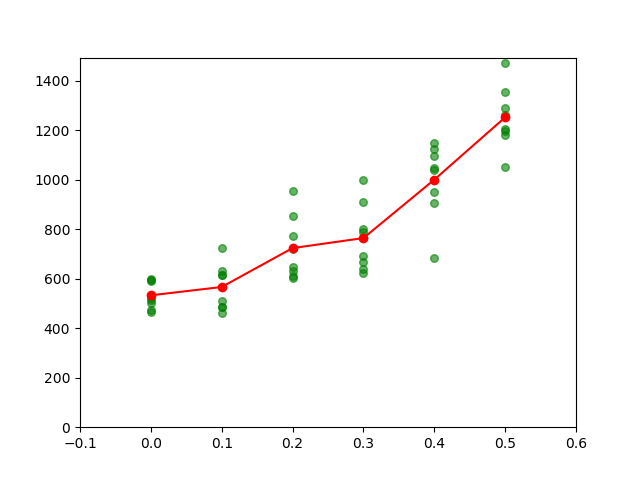
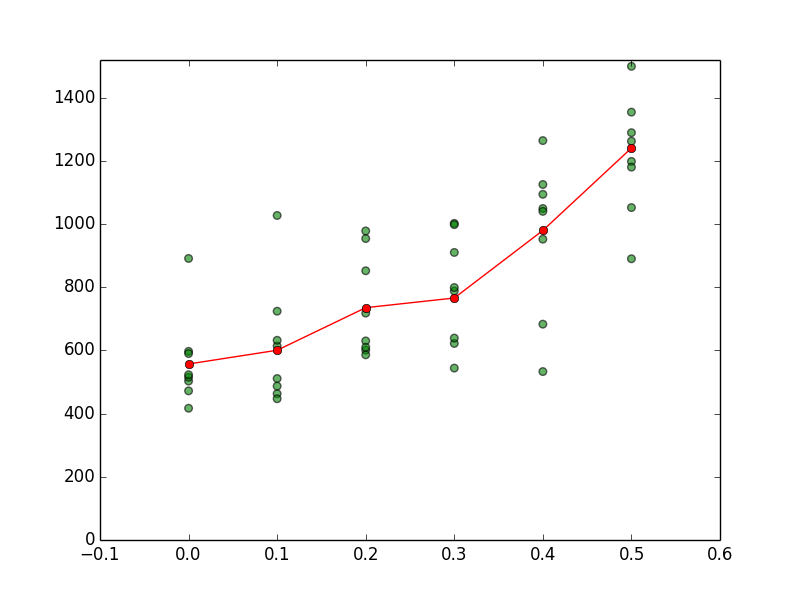
improve plots

diff --git a/task2/draw_plot.py b/task2/draw_plot.py
@@ -1,37 +1,47 @@
+import argparse
+import copy
 import os
 import sys
+from itertools import chain, islice
 
 import matplotlib.pyplot as plt
 import numpy as np
 
-if len(sys.argv) < 2:
-    print("Not enough arguments: data directory needed")
-data_dir = sys.argv[1]
+if sys.version_info >= (3, 0):
+    from itertools import zip_longest as izip
+else:
+    from itertools import izip as izip
+
+
 data_file = "test_loss.data"
 plot_file = "test_loss.png"
 boxplot_file = "test_loss_box.png"
+
+parser = argparse.ArgumentParser()
+parser.add_argument(
+    '--path', help='path to directory where to store data', required=True)
+args = parser.parse_args()
+data_dir = args.path
+
 datapath = os.path.join(data_dir, data_file)
 plotpath = os.path.join(data_dir, plot_file)
 boxplotpath = os.path.join(data_dir, boxplot_file)
-probs = []
-probs1 = []
-data_raw = []
-boxes = []
-with open(datapath) as filein:
-    nn = filein.readline()
-    n_experiments = int(nn)
-    line = filein.readline()
-    while line:
-        prob = float(line)
-        probs += [prob] * (n_experiments - 2)
-        probs1.append(prob)
-        row = sorted(list(map(int, filein.readline().split())))
-        data_raw.append(row[1:len(row) - 1])
-        boxes.append(np.array(row))
-        line = filein.readline()
-x = np.array(probs)
+probs, probs1, data_raw, boxes, avgs = [], [], [], [], []
+n_experiments = None
+
+with open(datapath) as filein, open(datapath) as filein2:
+    n_experiments = int(filein.readline())
+    for line1, line2 in izip(islice(filein, 0, None, 2), islice(filein2, 2, None, 2)):
+        probs1.append(float(line1))
+        np_ar = np.fromiter((t for t in line2.split()), dtype=np.int)
+        boxes.append(sorted(np_ar))
+        data_raw.append(np_ar[1:-1])
+        avgs.append(np.average(np_ar))
+
+
+x = np.fromiter(chain.from_iterable(
+    ([t] * (n_experiments - 2) for t in probs1)), dtype=np.float)
 y = np.concatenate(data_raw)
-avgs = [sum(l)/len(l) for l in data_raw]
 x1 = probs1
 y1 = avgs
 
@@ -46,28 +56,25 @@ plt.clf()
 fig = plt.figure()
 ax = fig.add_subplot(111)
 bp = ax.boxplot(boxes, patch_artist=True)
-## change outline color, fill color and linewidth of the boxes
-for box in bp['boxes']:
-    # change outline color
-    box.set( color='#7570b3', linewidth=2)
-    # change fill color
-    box.set( facecolor = '#1b9e77' )
 
-## change color and linewidth of the whiskers
+# <stackoverflow>
+for box in bp['boxes']:
+    box.set(color='#7570b3', linewidth=2)
+    box.set(facecolor='#1b9e77')
+
 for whisker in bp['whiskers']:
     whisker.set(color='#7570b3', linewidth=2)
 
-## change color and linewidth of the caps
 for cap in bp['caps']:
     cap.set(color='#7570b3', linewidth=2)
 
-## change color and linewidth of the medians
 for median in bp['medians']:
     median.set(color='#b2df8a', linewidth=2)
 
-## change the style of fliers and their fill
 for flier in bp['fliers']:
     flier.set(marker='o', color='#e7298a', alpha=0.5)
 
-ax.set_xticklabels(['0.0', '0.1', '0.2', '0.3', '0.4', '0.5'])
+ax.set_xticklabels(x1)
 plt.savefig(boxplotpath, bbox_inches='tight')
+
+# </stackoverflow>
